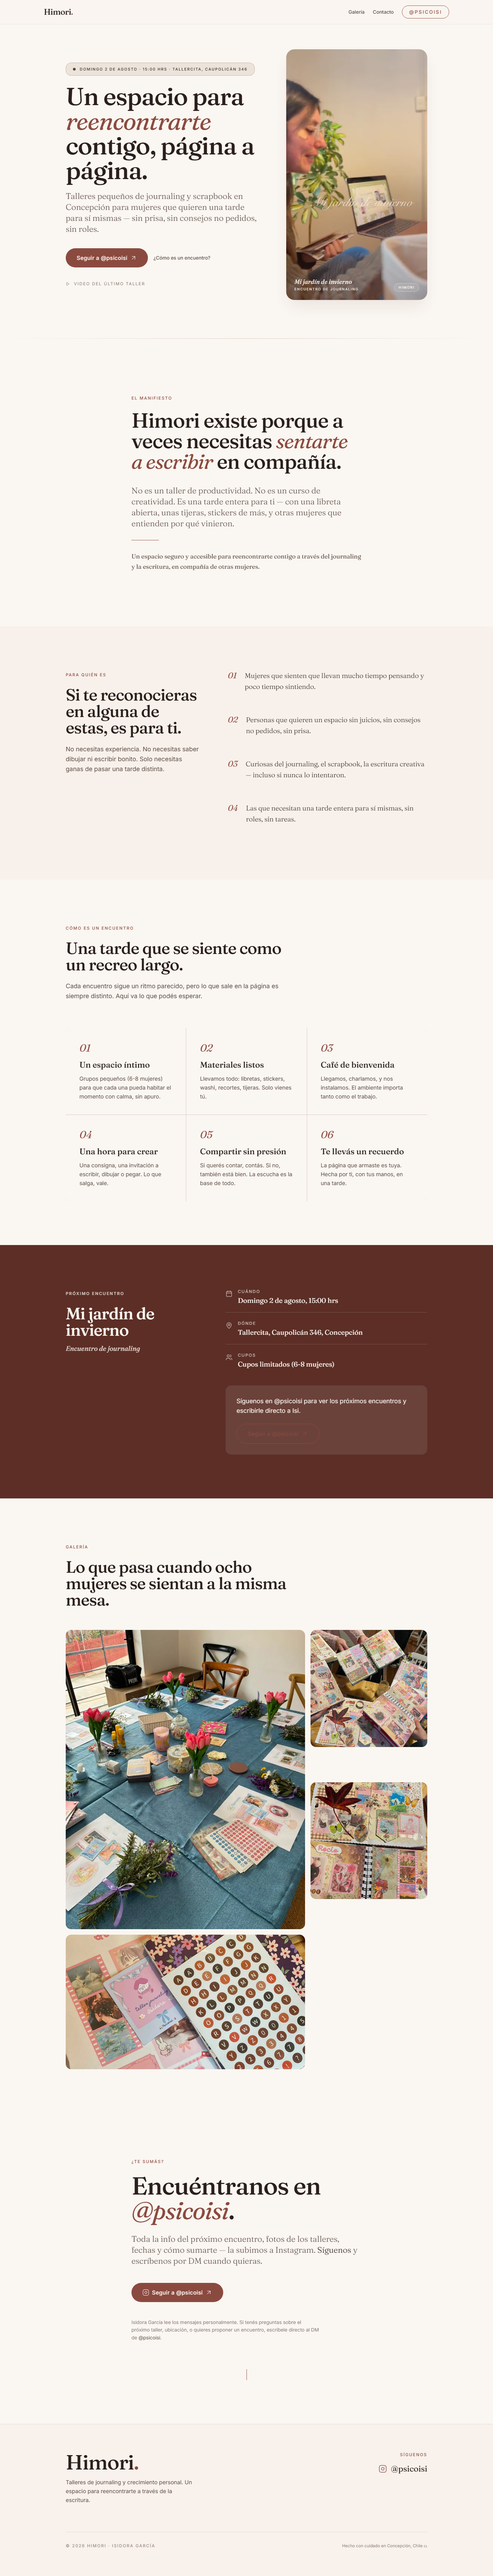
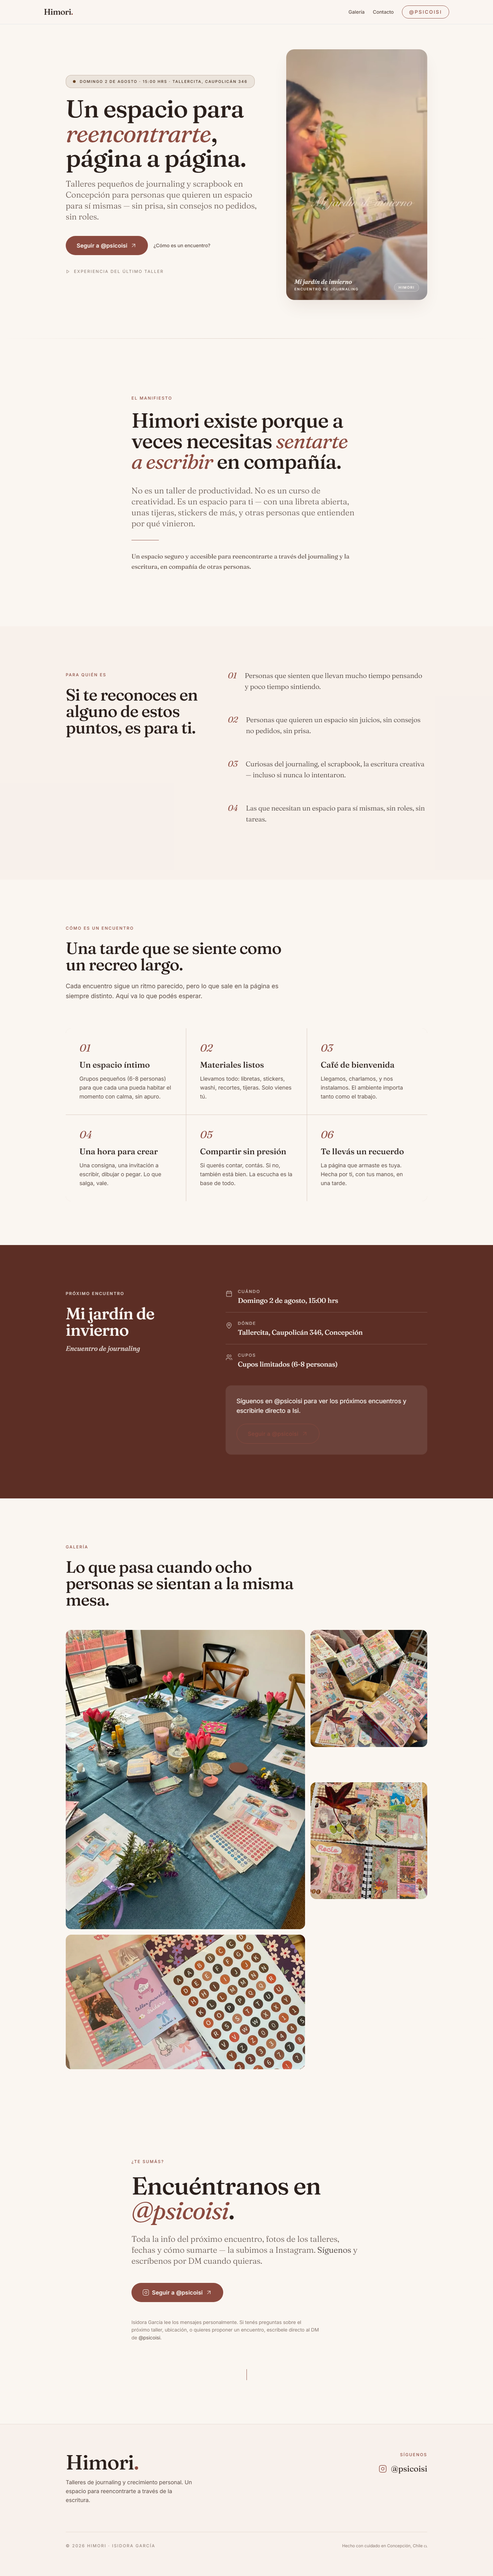
hero: barrita café movida más abajo (después del subhead)

diff --git a/web/src/components/sections/Hero.tsx b/web/src/components/sections/Hero.tsx
@@ -54,17 +54,6 @@ export function Hero() {
         <div className="grid grid-cols-1 gap-10 lg:grid-cols-12 lg:gap-12">
           {/* ── Columna texto ─────────────────────────────── */}
           <div className="flex flex-col justify-center lg:col-span-7 lg:pr-8">
-            <div className="mb-6 inline-flex max-w-full items-center gap-3 self-start rounded-2xl border border-coffee/30 bg-coffee/10 px-4 py-2.5 backdrop-blur-sm sm:px-5">
-              <span className="relative flex h-2 w-2 flex-shrink-0">
-                <span className="absolute inset-0 animate-ping rounded-full bg-coffee/60" />
-                <span className="relative inline-flex h-2 w-2 rounded-full bg-coffee" />
-              </span>
-              <span className="text-[10px] font-medium uppercase tracking-[0.14em] text-coffee-dark sm:text-[11px] sm:tracking-eyebrow">
-                {SITE.upcoming[0].date} · {SITE.upcoming[0].time} ·
-                Tallercita, Caupolicán 346
-              </span>
-            </div>
-
             <h1 className="font-serif text-5xl font-medium leading-[1.05] tracking-tight text-ink sm:text-6xl lg:text-7xl">
               Un espacio para{" "}
               <em className="font-normal italic text-terracotta">
@@ -78,6 +67,17 @@ export function Hero() {
               personas que quieren un espacio para sí mismas — sin prisa, sin
               consejos no pedidos, sin roles.
             </p>
+
+            <div className="mt-8 inline-flex max-w-full items-center gap-3 self-start rounded-2xl border border-coffee/30 bg-coffee/10 px-4 py-2.5 backdrop-blur-sm sm:mt-10 sm:px-5">
+              <span className="relative flex h-2 w-2 flex-shrink-0">
+                <span className="absolute inset-0 animate-ping rounded-full bg-coffee/60" />
+                <span className="relative inline-flex h-2 w-2 rounded-full bg-coffee" />
+              </span>
+              <span className="text-[10px] font-medium uppercase tracking-[0.14em] text-coffee-dark sm:text-[11px] sm:tracking-eyebrow">
+                {SITE.upcoming[0].date} · {SITE.upcoming[0].time} ·
+                Tallercita, Caupolicán 346
+              </span>
+            </div>
 
             <div className="mt-10 flex flex-col gap-4 sm:flex-row sm:items-center">
               <Button
